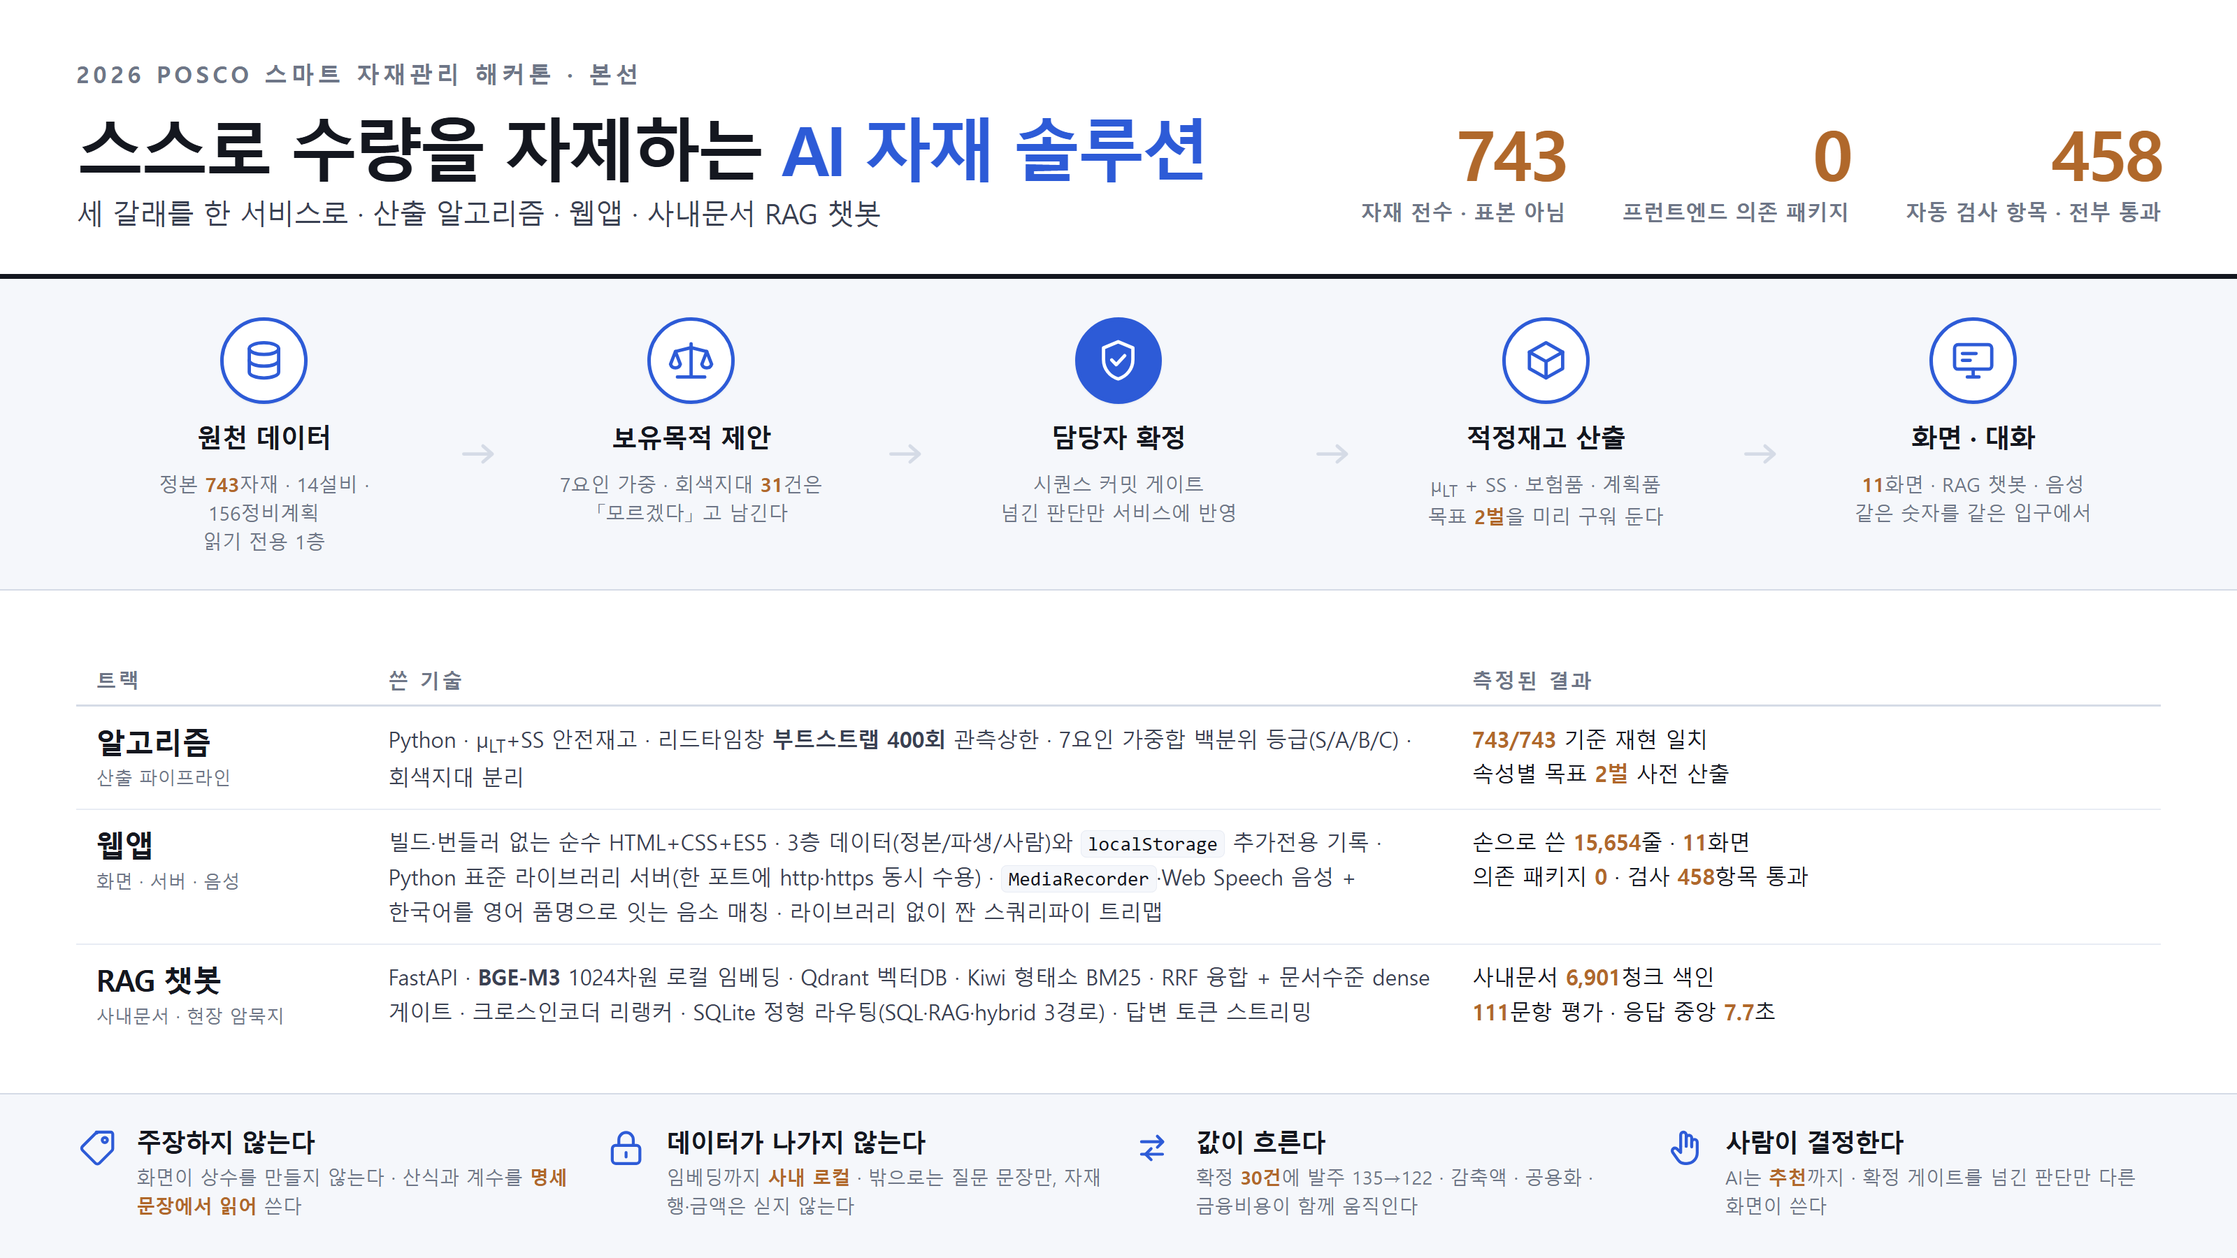
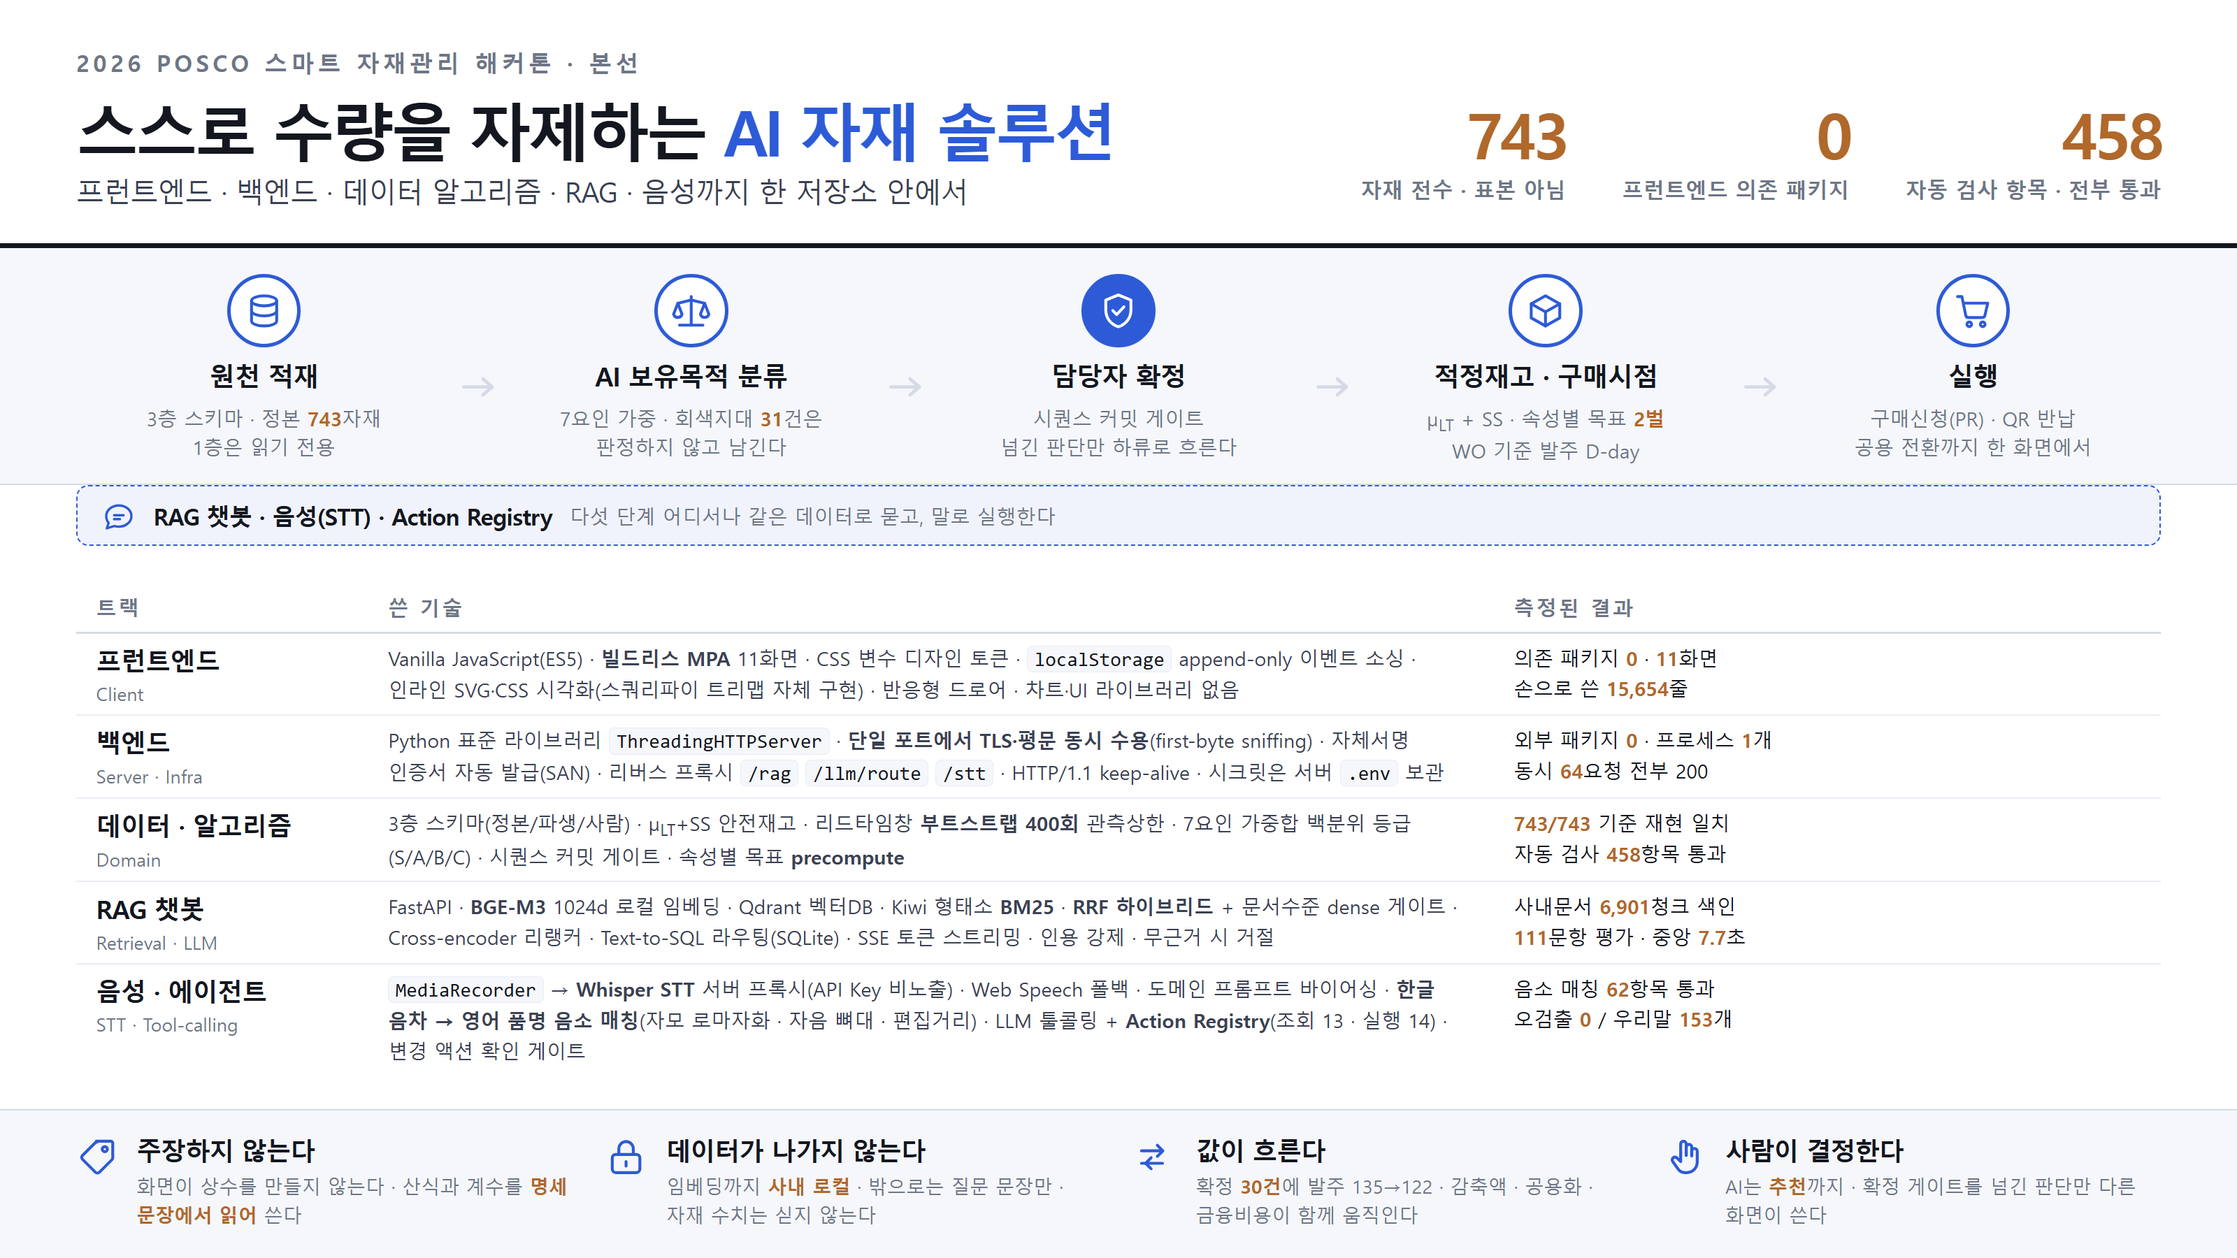
슬라이드를 다섯 트랙으로 다시 쓴다
흐름은 실제 서비스 순서로 맞춘다 ·
원천 적재 → AI 보유목적 분류 → 담당자 확정 → 적정재고·구매시점 → 실행.
챗봇과 음성은 한 단계가 아니라 모든 단계에 붙으므로 흐름 아래 띠로 적는다.
트랙은 프런트엔드 · 백엔드 · 데이터/알고리즘 · RAG · 음성(STT)으로 갈라
쓴 기술을 IT 용어 그대로 병기한다.

diff --git a/db/SLIDE_STACK.html b/db/SLIDE_STACK.html
@@ -61,14 +61,14 @@ body {
 /* ① 머리 · 띄운 순간 규모가 먼저 읽히게 숫자를 오른쪽에 크게 둔다 */
 .head {
   display: flex; align-items: flex-end; justify-content: space-between; gap: 3cqw;
-  padding: 2.6cqw 3.4cqw 1.9cqw; border-bottom: .22cqw solid var(--ink);
+  padding: 2.1cqw 3.4cqw 1.5cqw; border-bottom: .22cqw solid var(--ink);
 }
 .kicker {
   font-size: 1.02cqw; letter-spacing: .17em; font-weight: 700; color: var(--dim);
   text-transform: none;
 }
 .head h1 {
-  margin: .9cqw 0 .35cqw; font-size: 3.05cqw; line-height: 1.14;
+  margin: .75cqw 0 .3cqw; font-size: 2.8cqw; line-height: 1.14;
   letter-spacing: -.055em; font-weight: 800;
 }
 .head h1 em { font-style: normal; color: var(--blue); }
@@ -76,7 +76,7 @@ body {
 .stats { display: flex; gap: 2.5cqw; flex: 0 0 auto; padding-bottom: .3cqw; }
 .stat { text-align: right; }
 .stat b {
-  display: block; font-size: 3.1cqw; line-height: 1; letter-spacing: -.05em;
+  display: block; font-size: 2.8cqw; line-height: 1; letter-spacing: -.05em;
   font-weight: 800; color: var(--copper); font-variant-numeric: tabular-nums;
 }
 .stat span { display: block; font-size: .95cqw; color: var(--dim); margin-top: .45cqw; font-weight: 600; }
@@ -84,16 +84,16 @@ body {
 /* ② 흐름 · 청중이 구조를 먼저 잡는 자리다 */
 .flow {
   display: flex; align-items: stretch; gap: 0;
-  padding: 1.7cqw 3.4cqw 1.5cqw; background: var(--bg2); border-bottom: .08cqw solid var(--line);
+  padding: 1.15cqw 3.4cqw .85cqw; background: var(--bg2); border-bottom: .08cqw solid var(--line);
 }
-.step { flex: 1 1 0; display: flex; flex-direction: column; align-items: center; text-align: center; gap: .7cqw; }
+.step { flex: 1 1 0; display: flex; flex-direction: column; align-items: center; text-align: center; gap: .5cqw; }
 .badge {
-  width: 3.9cqw; height: 3.9cqw; border-radius: 50%;
+  width: 3.3cqw; height: 3.3cqw; border-radius: 50%;
   display: grid; place-items: center;
   background: var(--bg); border: .16cqw solid var(--blue); color: var(--blue);
   box-shadow: var(--shadow);
 }
-.badge svg { width: 2.1cqw; height: 2.1cqw; }
+.badge svg { width: 1.8cqw; height: 1.8cqw; }
 .step.act .badge { background: var(--blue); color: var(--bg); }
 .step b { font-size: 1.16cqw; letter-spacing: -.03em; font-weight: 700; }
 .step span { font-size: .88cqw; color: var(--dim); line-height: 1.45; max-width: 13cqw; }
@@ -101,32 +101,44 @@ body {
 .arrow { flex: 0 0 auto; display: grid; place-items: center; padding: 0 .3cqw; margin-top: 1.6cqw; }
 .arrow svg { width: 1.7cqw; height: 1.1cqw; color: var(--line); }
 
+/* 전 구간에 얹히는 층 · 흐름 아래 얇은 띠 하나로 적는다 ·
+ * 챗봇과 음성은 한 단계가 아니라 모든 단계에 붙기 때문이다 */
+.layer {
+  display: flex; align-items: center; gap: .8cqw;
+  margin: 0 3.4cqw; padding: .55cqw 1.1cqw;
+  border: .09cqw dashed var(--blue); border-radius: .55cqw;
+  background: color-mix(in srgb, var(--blue) 7%, transparent);
+}
+.layer svg { width: 1.5cqw; height: 1.5cqw; color: var(--blue); flex: 0 0 auto; }
+.layer b { font-size: 1.02cqw; letter-spacing: -.02em; font-weight: 800; }
+.layer span { font-size: .88cqw; color: var(--dim); }
+
 /* ③ 트랙 표 · 오른쪽 열의 숫자만 구리색이다 · 「주장이 아니라 측정값」 이 표로 보인다 */
-.tracks { flex: 1 1 auto; padding: 1.5cqw 3.4cqw 1cqw; display: flex; align-items: center; }
+.tracks { flex: 1 1 auto; padding: .8cqw 3.4cqw .6cqw; display: flex; align-items: center; }
 .tracks table { align-self: center; }
 table { width: 100%; border-collapse: collapse; }
-th, td { text-align: left; vertical-align: top; padding: .66cqw .9cqw; }
+th, td { text-align: left; vertical-align: top; padding: .4cqw .9cqw; }
 thead th {
   font-size: .92cqw; letter-spacing: .09em; color: var(--dim); font-weight: 700;
   border-bottom: .1cqw solid var(--line); padding-bottom: .5cqw;
 }
 tbody tr + tr td { border-top: .08cqw solid var(--line2); }
 td.trk { width: 14%; }
-td.trk b { display: block; font-size: 1.32cqw; letter-spacing: -.03em; font-weight: 800; }
+td.trk b { display: block; font-size: 1.14cqw; letter-spacing: -.03em; font-weight: 800; }
 td.trk span { display: block; font-size: .82cqw; color: var(--dim); margin-top: .18cqw; }
-td.tech { width: 52%; font-size: .96cqw; color: var(--ink2); line-height: 1.6; }
+td.tech { width: 54%; font-size: .88cqw; color: var(--ink2); line-height: 1.55; }
 td.tech code {
   font-family: Consolas, 'Courier New', monospace; font-size: .88cqw;
   background: var(--bg2); border: .06cqw solid var(--line2); border-radius: .25cqw;
   padding: .05cqw .3cqw; color: var(--ink);
 }
-td.out { font-size: .96cqw; line-height: 1.6; }
+td.out { font-size: .88cqw; line-height: 1.55; }
 td.out b { color: var(--copper); font-weight: 800; font-variant-numeric: tabular-nums; }
 
 /* ④ 차별점 띠 */
 .diff {
   display: grid; grid-template-columns: repeat(4, 1fr); gap: 1.5cqw;
-  padding: 1.35cqw 3.4cqw 1.7cqw; background: var(--bg2); border-top: .08cqw solid var(--line);
+  padding: 1.05cqw 3.4cqw 1.3cqw; background: var(--bg2); border-top: .08cqw solid var(--line);
   flex: 0 0 auto;
 }
 .dif { display: flex; gap: .85cqw; align-items: flex-start; }
@@ -205,6 +217,14 @@ td.out b { color: var(--copper); font-weight: 800; font-variant-numeric: tabular
     <path d="M12.2 11V6.2a1.6 1.6 0 0 1 3.2 0V11"/>
     <path d="M15.4 11.4V8.6a1.6 1.6 0 0 1 3.2 0v6.2c0 3.4-2.6 6.2-6 6.2h-1.2c-1.5 0-2.9-.7-3.8-1.9L4.4 14.6a1.6 1.6 0 0 1 2.4-2.1L9 14.6V11"/>
   </g>
+  <g id="i-cart" fill="none" stroke="currentColor" stroke-width="1.7" stroke-linecap="round" stroke-linejoin="round">
+    <path d="M2.6 3.5h2.6l2.3 11.2a1.6 1.6 0 0 0 1.6 1.3h8.2a1.6 1.6 0 0 0 1.6-1.25L20.6 7.4H6.1"/>
+    <circle cx="9.6" cy="20" r="1.4"/><circle cx="17.6" cy="20" r="1.4"/>
+  </g>
+  <g id="i-chat" fill="none" stroke="currentColor" stroke-width="1.7" stroke-linecap="round" stroke-linejoin="round">
+    <path d="M21 12.2c0 4.2-4 7.6-9 7.6-1.1 0-2.2-.17-3.2-.48L3.4 21l1.3-3.9A7 7 0 0 1 3 12.2C3 8 7 4.6 12 4.6s9 3.4 9 7.6z"/>
+    <path d="M8.6 11.6h6.8M8.6 14.4h4.2"/>
+  </g>
   <g id="i-arrow" fill="none" stroke="currentColor" stroke-width="2.2" stroke-linecap="round" stroke-linejoin="round">
     <path d="M2 8h18m-5.5-5.2L20.5 8l-6 5.2"/>
   </g>
@@ -217,7 +237,7 @@ td.out b { color: var(--copper); font-weight: 800; font-variant-numeric: tabular
     <div>
       <div class="kicker">2026 POSCO 스마트 자재관리 해커톤 · 본선</div>
       <h1>스스로 수량을 자제하는 <em>AI 자재 솔루션</em></h1>
-      <div class="sub">세 갈래를 한 서비스로 · 산출 알고리즘 · 웹앱 · 사내문서 RAG 챗봇</div>
+      <div class="sub">프런트엔드 · 백엔드 · 데이터 알고리즘 · RAG · 음성까지 한 저장소 안에서</div>
     </div>
     <div class="stats">
       <div class="stat"><b>743</b><span>자재 전수 · 표본 아님</span></div>
@@ -226,37 +246,44 @@ td.out b { color: var(--copper); font-weight: 800; font-variant-numeric: tabular
     </div>
   </header>
 
-  <!-- ② 흐름 · 원천에서 화면까지 한 줄 -->
+  <!-- ② 흐름 · 실제 서비스 순서다 (메뉴 순서와 같다) -->
   <div class="flow">
     <div class="step">
       <div class="badge"><svg viewBox="0 0 24 24"><use href="#i-db"/></svg></div>
-      <b>원천 데이터</b>
-      <span>정본 <i>743</i>자재 · 14설비 · 156정비계획<br>읽기 전용 1층</span>
+      <b>원천 적재</b>
+      <span>3층 스키마 · 정본 <i>743</i>자재<br>1층은 읽기 전용</span>
     </div>
     <div class="arrow"><svg viewBox="0 0 22 16"><use href="#i-arrow"/></svg></div>
     <div class="step">
       <div class="badge"><svg viewBox="0 0 24 24"><use href="#i-scale"/></svg></div>
-      <b>보유목적 제안</b>
-      <span>7요인 가중 · 회색지대 <i>31</i>건은<br>「모르겠다」 고 남긴다</span>
+      <b>AI 보유목적 분류</b>
+      <span>7요인 가중 · 회색지대 <i>31</i>건은<br>판정하지 않고 남긴다</span>
     </div>
     <div class="arrow"><svg viewBox="0 0 22 16"><use href="#i-arrow"/></svg></div>
     <div class="step act">
       <div class="badge"><svg viewBox="0 0 24 24"><use href="#i-shield"/></svg></div>
       <b>담당자 확정</b>
-      <span>시퀀스 커밋 게이트<br>넘긴 판단만 서비스에 반영</span>
+      <span>시퀀스 커밋 게이트<br>넘긴 판단만 하류로 흐른다</span>
     </div>
     <div class="arrow"><svg viewBox="0 0 22 16"><use href="#i-arrow"/></svg></div>
     <div class="step">
       <div class="badge"><svg viewBox="0 0 24 24"><use href="#i-box"/></svg></div>
-      <b>적정재고 산출</b>
-      <span>μ<sub>LT</sub> + SS · 보험품 · 계획품<br>목표 <i>2벌</i>을 미리 구워 둔다</span>
+      <b>적정재고 · 구매시점</b>
+      <span>μ<sub>LT</sub> + SS · 속성별 목표 <i>2벌</i><br>WO 기준 발주 D-day</span>
     </div>
     <div class="arrow"><svg viewBox="0 0 22 16"><use href="#i-arrow"/></svg></div>
     <div class="step">
-      <div class="badge"><svg viewBox="0 0 24 24"><use href="#i-monitor"/></svg></div>
-      <b>화면 · 대화</b>
-      <span><i>11</i>화면 · RAG 챗봇 · 음성<br>같은 숫자를 같은 입구에서</span>
+      <div class="badge"><svg viewBox="0 0 24 24"><use href="#i-cart"/></svg></div>
+      <b>실행</b>
+      <span>구매신청(PR) · QR 반납<br>공용 전환까지 한 화면에서</span>
     </div>
+  </div>
+
+  <!-- 전 구간에 얹히는 층 · 위 다섯 칸 어디서든 같은 데이터로 붙는다 -->
+  <div class="layer">
+    <svg viewBox="0 0 24 24"><use href="#i-chat"/></svg>
+    <b>RAG 챗봇 · 음성(STT) · Action Registry</b>
+    <span>다섯 단계 어디서나 같은 데이터로 묻고, 말로 실행한다</span>
   </div>
 
   <!-- ③ 트랙 표 -->
@@ -267,25 +294,42 @@ td.out b { color: var(--copper); font-weight: 800; font-variant-numeric: tabular
       </thead>
       <tbody>
         <tr>
-          <td class="trk"><b>알고리즘</b><span>산출 파이프라인</span></td>
-          <td class="tech">Python · μ<sub>LT</sub>+SS 안전재고 · 리드타임창 <b>부트스트랩 400회</b> 관측상한 ·
-            7요인 가중합 백분위 등급(S/A/B/C) · 회색지대 분리</td>
-          <td class="out"><b>743/743</b> 기준 재현 일치<br>속성별 목표 <b>2벌</b> 사전 산출</td>
+          <td class="trk"><b>프런트엔드</b><span>Client</span></td>
+          <td class="tech">Vanilla JavaScript(ES5) · <b>빌드리스 MPA</b> 11화면 · CSS 변수 디자인 토큰 ·
+            <code>localStorage</code> append-only 이벤트 소싱 · 인라인 SVG·CSS 시각화(스쿼리파이 트리맵 자체 구현) ·
+            반응형 드로어 · 차트·UI 라이브러리 없음</td>
+          <td class="out">의존 패키지 <b>0</b> · <b>11</b>화면<br>손으로 쓴 <b>15,654</b>줄</td>
         </tr>
         <tr>
-          <td class="trk"><b>웹앱</b><span>화면 · 서버 · 음성</span></td>
-          <td class="tech">빌드·번들러 없는 순수 HTML+CSS+ES5 · 3층 데이터(정본/파생/사람)와
-            <code>localStorage</code> 추가전용 기록 · Python 표준 라이브러리 서버(한 포트에 http·https 동시 수용) ·
-            <code>MediaRecorder</code>·Web Speech 음성 + 한국어를 영어 품명으로 잇는 음소 매칭 ·
-            라이브러리 없이 짠 스쿼리파이 트리맵</td>
-          <td class="out">손으로 쓴 <b>15,654</b>줄 · <b>11</b>화면<br>의존 패키지 <b>0</b> · 검사 <b>458</b>항목 통과</td>
+          <td class="trk"><b>백엔드</b><span>Server · Infra</span></td>
+          <td class="tech">Python 표준 라이브러리 <code>ThreadingHTTPServer</code> ·
+            <b>단일 포트에서 TLS·평문 동시 수용</b>(first-byte sniffing) · 자체서명 인증서 자동 발급(SAN) ·
+            리버스 프록시 <code>/rag</code> <code>/llm/route</code> <code>/stt</code> ·
+            HTTP/1.1 keep-alive · 시크릿은 서버 <code>.env</code> 보관</td>
+          <td class="out">외부 패키지 <b>0</b> · 프로세스 <b>1</b>개<br>동시 <b>64</b>요청 전부 200</td>
         </tr>
         <tr>
-          <td class="trk"><b>RAG 챗봇</b><span>사내문서 · 현장 암묵지</span></td>
-          <td class="tech">FastAPI · <b>BGE-M3</b> 1024차원 로컬 임베딩 · Qdrant 벡터DB ·
-            Kiwi 형태소 BM25 · RRF 융합 + 문서수준 dense 게이트 · 크로스인코더 리랭커 ·
-            SQLite 정형 라우팅(SQL·RAG·hybrid 3경로) · 답변 토큰 스트리밍</td>
-          <td class="out">사내문서 <b>6,901</b>청크 색인<br><b>111</b>문항 평가 · 응답 중앙 <b>7.7</b>초</td>
+          <td class="trk"><b>데이터 · 알고리즘</b><span>Domain</span></td>
+          <td class="tech">3층 스키마(정본/파생/사람) · μ<sub>LT</sub>+SS 안전재고 ·
+            리드타임창 <b>부트스트랩 400회</b> 관측상한 · 7요인 가중합 백분위 등급(S/A/B/C) ·
+            시퀀스 커밋 게이트 · 속성별 목표 <b>precompute</b></td>
+          <td class="out"><b>743/743</b> 기준 재현 일치<br>자동 검사 <b>458</b>항목 통과</td>
+        </tr>
+        <tr>
+          <td class="trk"><b>RAG 챗봇</b><span>Retrieval · LLM</span></td>
+          <td class="tech">FastAPI · <b>BGE-M3</b> 1024d 로컬 임베딩 · Qdrant 벡터DB ·
+            Kiwi 형태소 <b>BM25</b> · <b>RRF 하이브리드</b> + 문서수준 dense 게이트 ·
+            Cross-encoder 리랭커 · Text-to-SQL 라우팅(SQLite) · SSE 토큰 스트리밍 ·
+            인용 강제 · 무근거 시 거절</td>
+          <td class="out">사내문서 <b>6,901</b>청크 색인<br><b>111</b>문항 평가 · 중앙 <b>7.7</b>초</td>
+        </tr>
+        <tr>
+          <td class="trk"><b>음성 · 에이전트</b><span>STT · Tool-calling</span></td>
+          <td class="tech"><code>MediaRecorder</code> → <b>Whisper STT</b> 서버 프록시(API Key 비노출) ·
+            Web Speech 폴백 · 도메인 프롬프트 바이어싱 ·
+            <b>한글 음차 → 영어 품명 음소 매칭</b>(자모 로마자화 · 자음 뼈대 · 편집거리) ·
+            LLM 툴콜링 + <b>Action Registry</b>(조회 13 · 실행 14) · 변경 액션 확인 게이트</td>
+          <td class="out">음소 매칭 <b>62</b>항목 통과<br>오검출 <b>0</b> / 우리말 <b>153</b>개</td>
         </tr>
       </tbody>
     </table>
@@ -301,7 +345,7 @@ td.out b { color: var(--copper); font-weight: 800; font-variant-numeric: tabular
     <div class="dif">
       <svg viewBox="0 0 24 24"><use href="#i-lock"/></svg>
       <div><b>데이터가 나가지 않는다</b>
-        <span>임베딩까지 <i>사내 로컬</i> · 밖으로는 질문 문장만, 자재 행·금액은 싣지 않는다</span></div>
+        <span>임베딩까지 <i>사내 로컬</i> · 밖으로는 질문 문장만 · 자재 수치는 싣지 않는다</span></div>
     </div>
     <div class="dif">
       <svg viewBox="0 0 24 24"><use href="#i-flow"/></svg>
@@ -343,6 +387,11 @@ td.out b { color: var(--copper); font-weight: 800; font-variant-numeric: tabular
       <dd>사내문서(가이드북·지침·계약·포스위키 FAQ)를 <b>6,901청크</b>로 색인했고,
         FAQ 재질문·문서합성·업무시나리오·답변불가 <b>111문항</b>으로 평가했습니다.
         근거를 못 찾으면 지어내지 않고 <b>「찾을 수 없습니다」</b> 로 답하도록 막아 두었습니다.</dd>
+      <dt>음성(STT)은 어떻게 처리하나요?</dt>
+      <dd>브라우저가 <b>MediaRecorder</b> 로 녹음해 서버 프록시를 거쳐 <b>Whisper</b> 로 보냅니다 ·
+        API Key 는 서버에만 있고 화면으로 내려가지 않습니다. 받아쓴 한국어는
+        <b>음소 매칭</b>(자모 로마자화 → 자음 뼈대 → 편집거리)으로 영어 품명에 붙입니다 ·
+        「너트」 라고 말하면 <b>Nut</b> 를 찾습니다.</dd>
       <dt>의존 패키지 0개라면서 웹폰트는?</dt>
       <dd>실행에 필요한 <b>npm 패키지·빌드 도구가 0</b> 이라는 뜻입니다.
         아이콘 글꼴 하나만 CDN에서 받고, 끊겨도 화면은 그대로 동작합니다.</dd>
